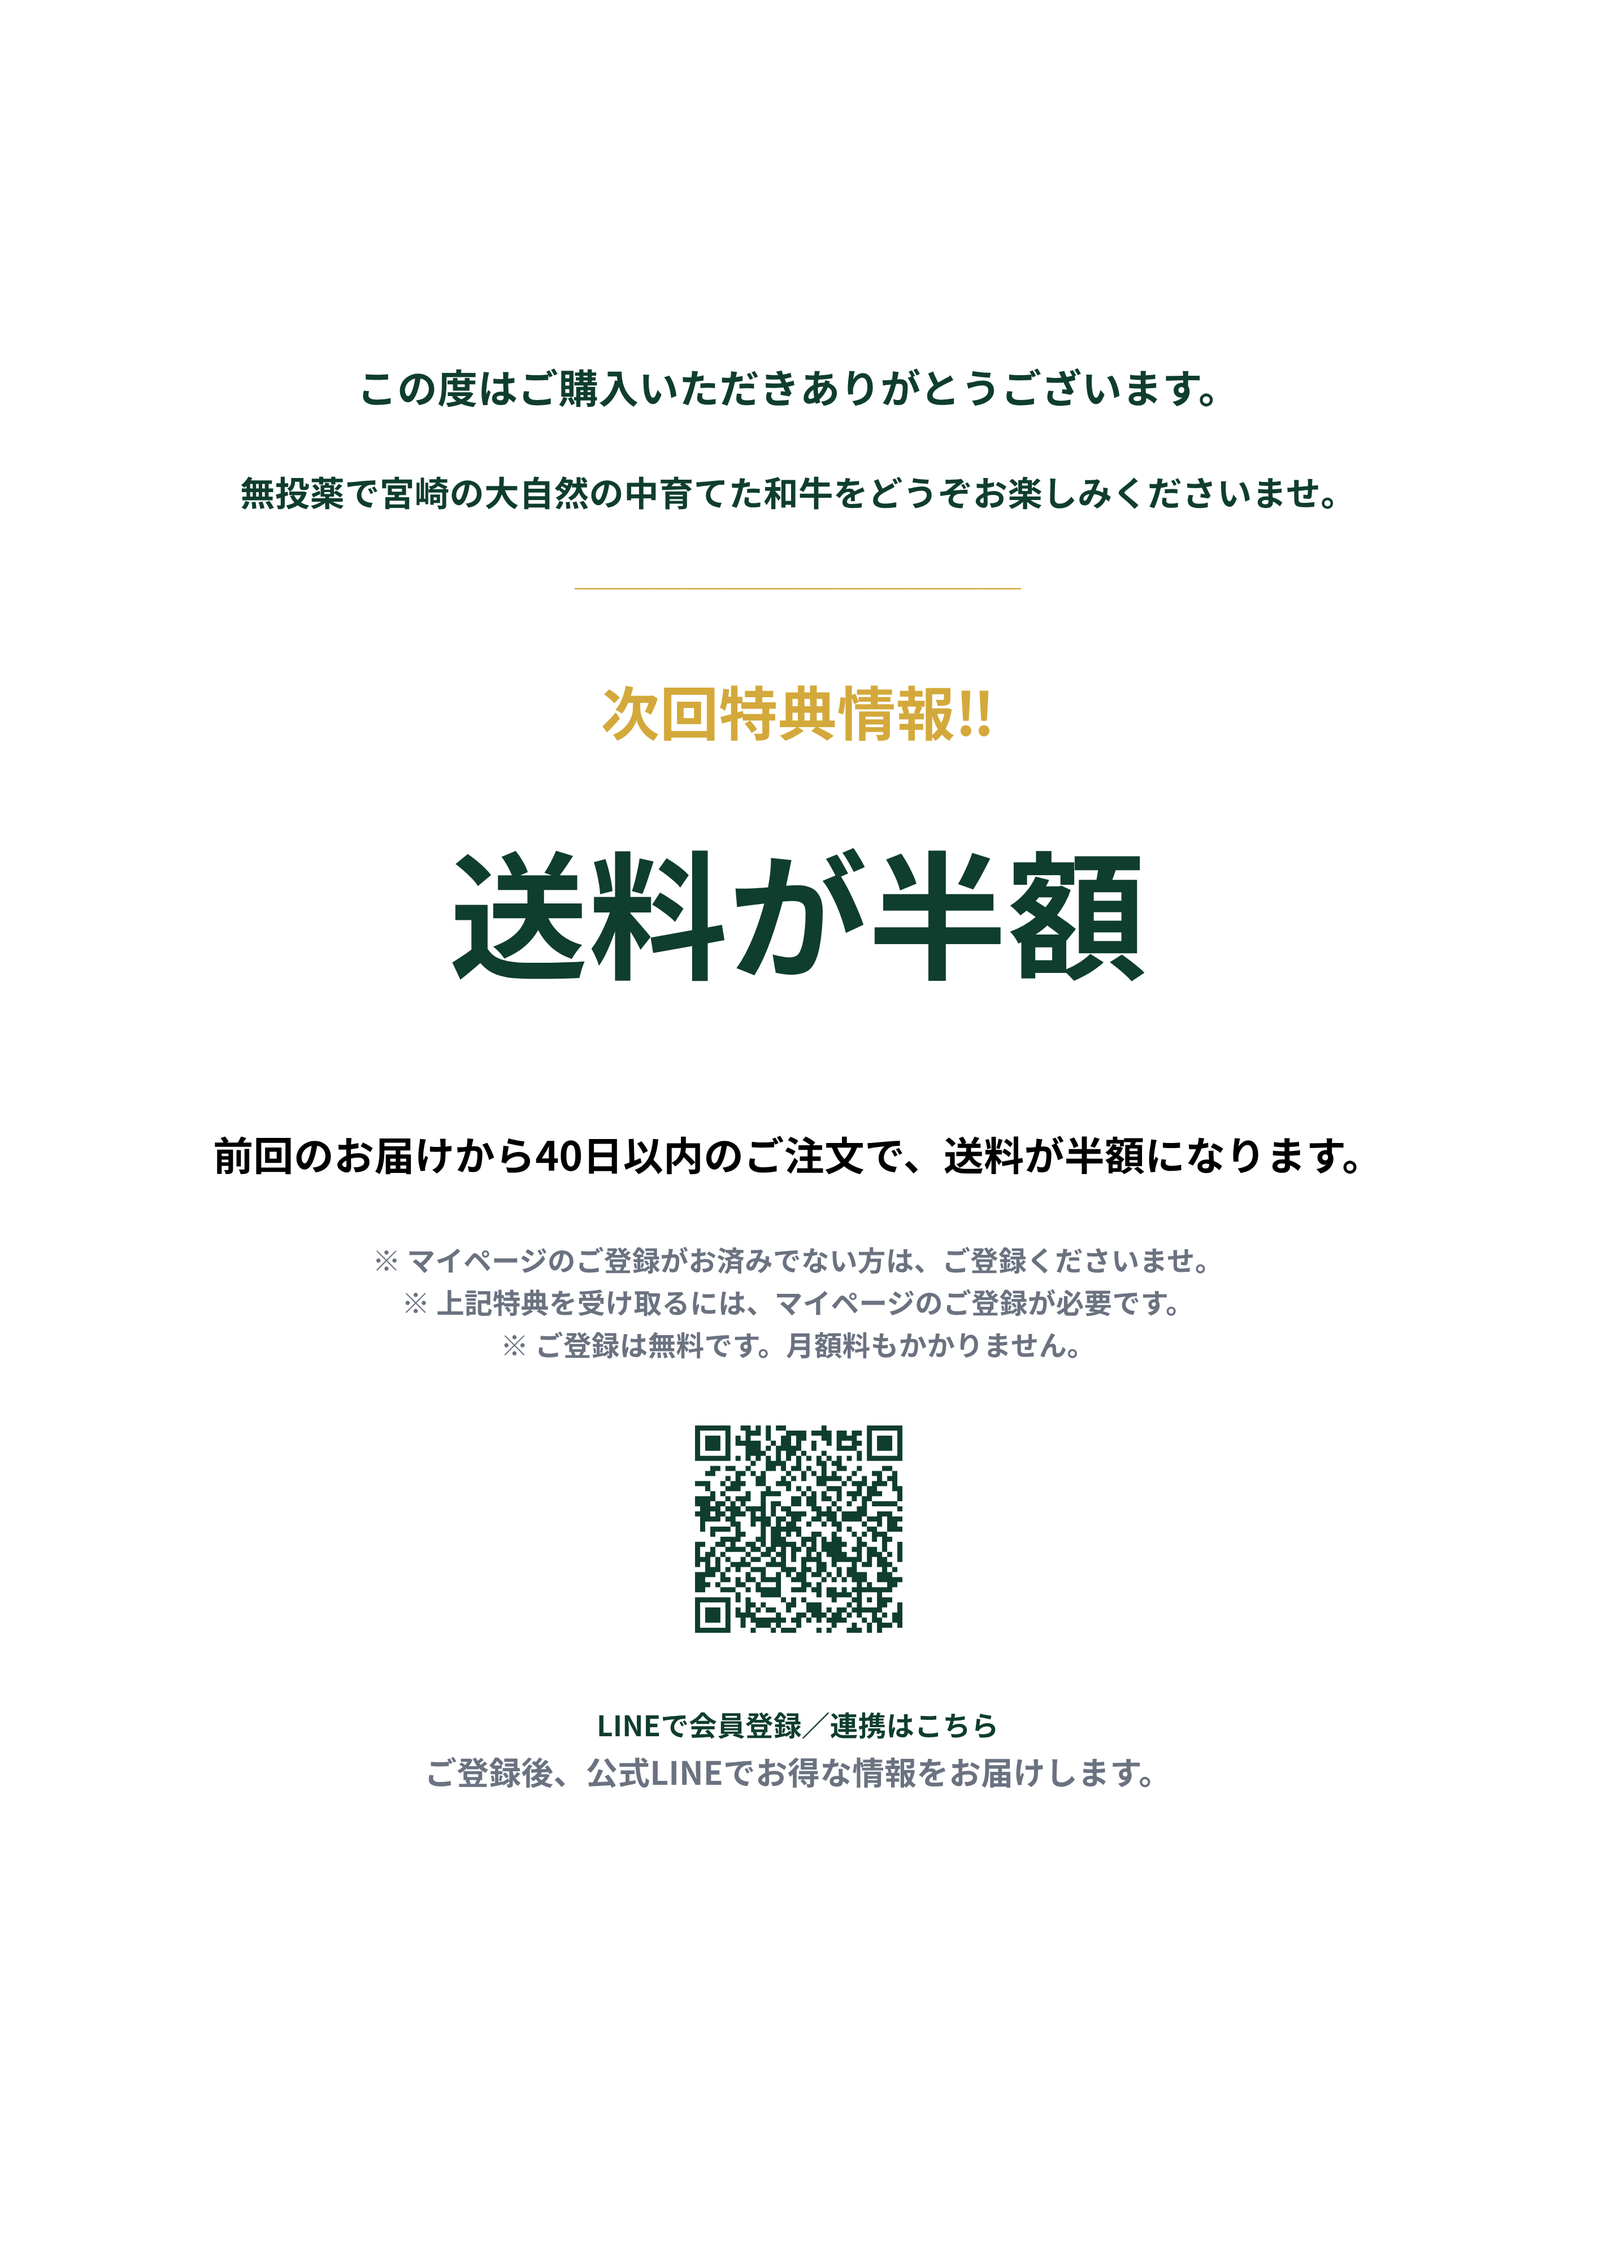
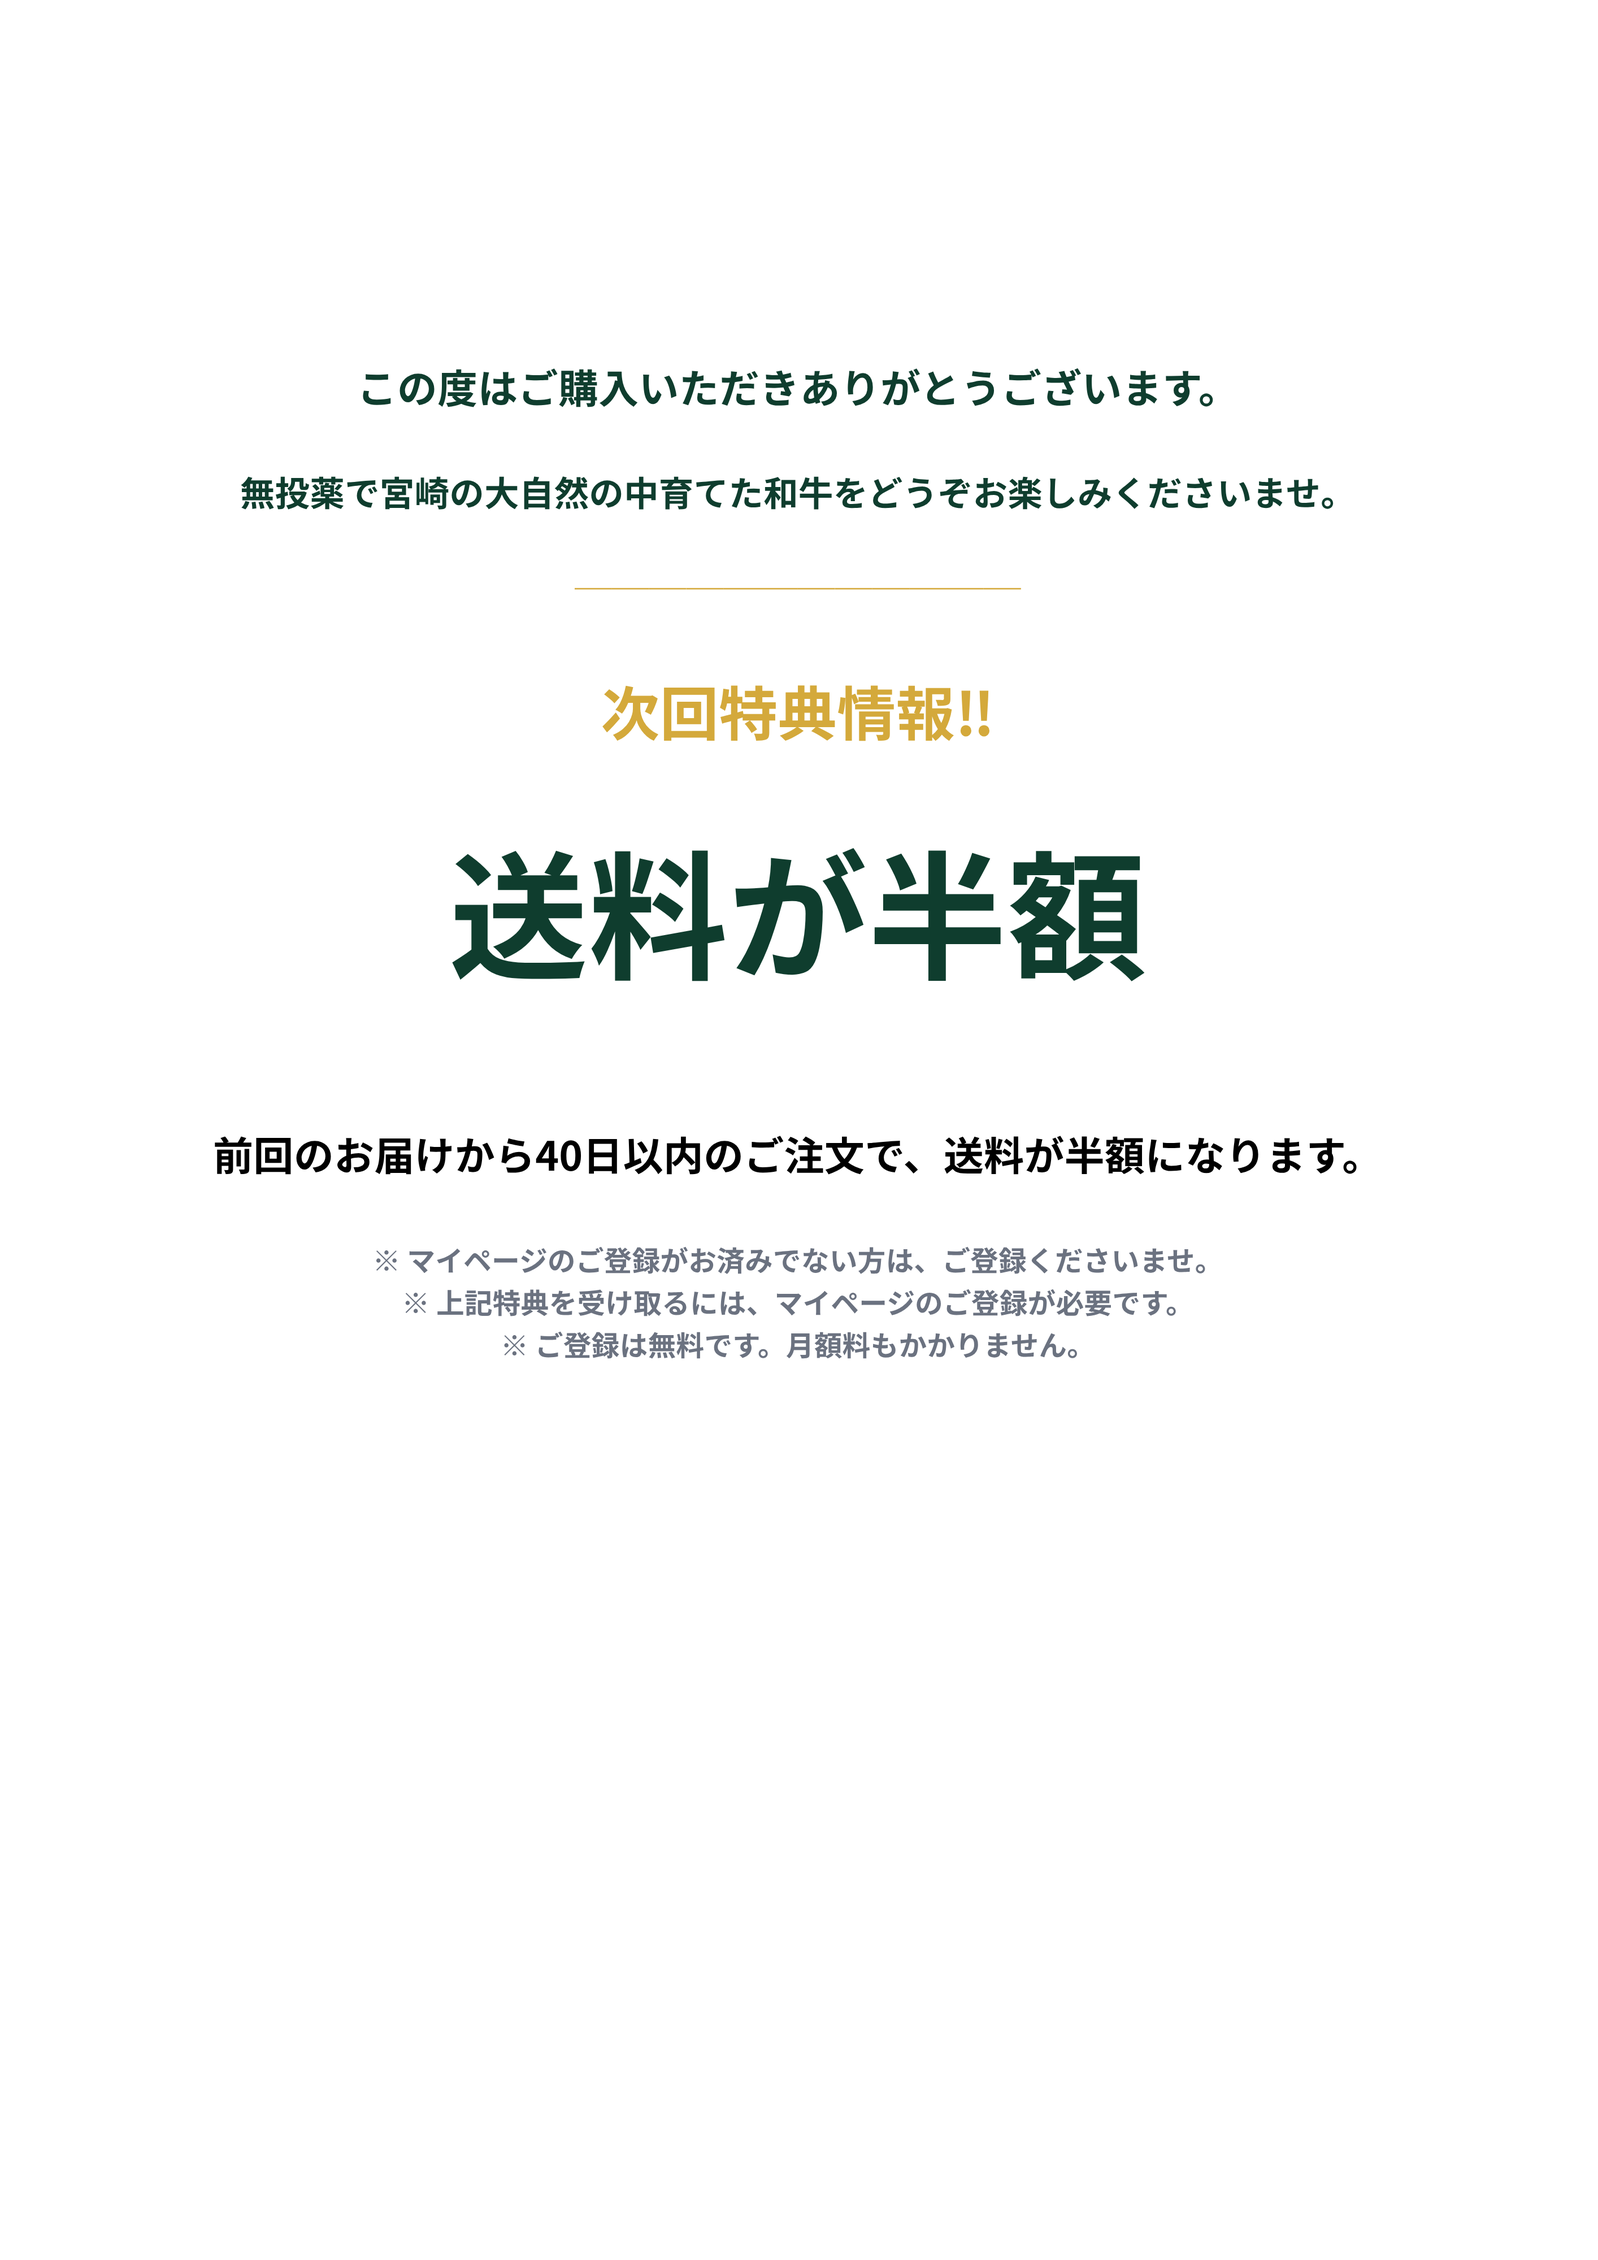
同梱用紙の下の案内文を、公式LINEと繋がっているかで出し分ける
田崎さん決定（2026-09-01）。紙は1人ずつ印刷しているので、その方が公式LINEと
繋がっているかで下の案内文を変える。

・未連携  … 「公式LINEとつながると、次回の特典やお届けのご案内が届きます」＋QR
・連携済み … 「お味の感想を、公式LINEにひとことお聞かせください」（お名前入り・QRなし）

判定は注文の line_uid（この画面が発送通知の宛先を決めるのと同じ値）。staff.html が
reward-sheet.html?line=1/0 で渡す。GASは触っていない（再デプロイ不要）。

・絵柄5枚からQRと下2行を削除して書き出し直した（文言はシート側で刷るため）
・QR画像 public/rewards/line-qr.png を追加（飛び先 mypage.html?src=insert）
・案内文の位置は印刷ページのツールバーで調整（このPCに記憶）

diff --git a/reward-sheet.html b/reward-sheet.html
@@ -25,6 +25,7 @@
     --forest:#0F3D2E; --gold:#D4A93B; --cream:#FAF7F0; --ink:#1A1A1A; --muted:#6B7280;
     --shift: 0mm;               /* 下書きのとき: 文字全体の上下位置 */
     --name-top: 40mm;           /* 絵柄ありのとき: 「〇〇様」を上から何mmに置くか */
+    --foot-top: 190mm;          /* 絵柄ありのとき: 下の案内文（LINE）を上から何mmに置くか */
   }
   *{ box-sizing:border-box }
   body{ margin:0; background:#E9ECEF; color:var(--ink);
@@ -71,7 +72,8 @@
   .spacer{ flex:1 }
 
   .line-block{ text-align:center }
-  .line-sub{ font-size:9.5pt; font-weight:500; color:var(--muted); line-height:1.8; margin:3mm 0 0 }
+  .line-lead{ font-size:12pt; font-weight:700; color:var(--forest); line-height:1.9; margin:0 }
+  .line-sub{ font-size:10.5pt; font-weight:500; color:var(--muted); line-height:1.9; margin:3mm 0 0 }
   .qr{ width:34mm; height:34mm; margin:5mm auto 3mm; display:block }
   .qr-ph{ width:34mm; height:34mm; margin:5mm auto 3mm; border:2px dashed #C9CED4; border-radius:3mm;
           display:flex; align-items:center; justify-content:center; font-size:8pt; font-weight:700; color:var(--muted); text-align:center; padding:3mm }
@@ -85,6 +87,9 @@
   body.has-art .sheet{ background:transparent }
   body.has-art .layer > *{ display:none }
   body.has-art .greet-name{ display:block; position:absolute; left:0; right:0; top:var(--name-top); margin:0 }
+  /* 下の案内文だけは絵柄ありでも刷る。公式LINEと繋がっているかで中身が変わるため
+     絵柄には入れず、ここで組む（[[お名前]]と同じ扱い）。 */
+  body.has-art .line-block{ display:block; position:absolute; left:14mm; right:14mm; top:var(--foot-top) }
 
   @media print{
     @page{ size:A4 portrait; margin:0 }
@@ -107,10 +112,12 @@
   </label>
   <button class="btn" onclick="window.print()">🖨 印刷する</button>
   <label style="margin-left:auto"><span id="shiftLabel">文字の上下位置</span> <input type="number" id="shiftInput" min="-40" max="200" step="1"> mm</label>
+  <label id="footLabelWrap" style="display:none">案内文の位置 <input type="number" id="footInput" min="0" max="270" step="1"> mm</label>
   <p class="hint">
     印刷設定は「用紙サイズ A4／余白なし（既定）／拡大縮小 100%／背景のグラフィックを印刷する」で刷ってください。<br>
-    Canvaの絵柄を置くと、この紙に刷る文字は「〇〇様」の1行だけになります（文言は絵柄の中にあるため）。<br>
-    その1行を上から何mmに置くかは、右の数字で1回だけ合わせてください（このパソコンに記憶されます）。
+    Canvaの絵柄を置くと、この紙に刷る文字は「〇〇様」と下の案内文だけになります（他の文言は絵柄の中）。<br>
+    下の案内文は<strong>公式LINEと繋がっている方だけ「感想をお聞かせください」に変わり、QRは出ません</strong>。<br>
+    位置は右の数字で1回だけ合わせてください（このパソコンに記憶されます）。
   </p>
 </div>
 
@@ -139,11 +146,7 @@
         <p>※ ご登録は無料です。月額料もかかりません。</p>
       </div>
 
-      <div class="line-block">
-        <div class="qr-ph" id="qrSlot">QRはここに入ります<br>（未確定）</div>
-        <p class="line-cap">マイページのご登録はこちら</p>
-        <p class="line-sub">このあとの特典やおすすめのご案内は、公式LINEからお送りします。</p>
-      </div>
+      <div class="line-block" id="lineBlock"></div>
 
       <p class="foot">江田畜産　eda-livestock.com</p>
     </div>
@@ -171,9 +174,34 @@ var SHEET_TEXT = {
 
 var STAGE_LABEL = { 2:'2回目', 3:'3回目', 4:'4回目', 5:'5回目', 6:'6回目' };
 
+/* ============================================================
+   下の案内文（公式LINE）。**繋がっているかどうかで中身を変える**
+   （2026-09-01 田崎さん決定）。
+     未連携  … 公式LINEにつながってもらう。QRを出す。
+     連携済み … 感想をもらう。QRは出さない（もう繋がっているため）。
+   🔴 この2行は絵柄(Canva)には入れない。ここで刷る＝1人ずつ出し分けられる。
+   ============================================================ */
+var FOOT_TEXT = {
+  /* 公式LINE未連携の方 */
+  off: function () {
+    return '<p class="line-lead">公式LINEとつながると、次回の特典やお届けのご案内が届きます。</p>' +
+           '<p class="line-sub">▼ 友だち追加・マイページのご登録はこちら</p>' +
+           '<div class="qr-ph" id="qrSlot">QRはここに入ります<br>（未登録）</div>';
+  },
+  /* 公式LINE連携済みの方（お名前を差し込む） */
+  on: function (name) {
+    var n = name ? (name + '様') : 'お客様';
+    return '<p class="line-lead">お味の感想を、公式LINEにひとことお聞かせください。</p>' +
+           '<p class="line-sub">いただいたお声はこれからの江田畜産に活かされ、' + n +
+           'に合ったご提案やお届けのご相談など、サポートをより厚くしてまいります。</p>';
+  }
+};
+
 var qs    = new URLSearchParams(location.search);
 var stage = String(Number(qs.get('stage')) || '');
 var name0 = (qs.get('name') || '').trim();
+/* ?line=1 … 公式LINE連携済み / それ以外 … 未連携（管理画面が注文の line_uid から渡す） */
+var lineLinked = qs.get('line') === '1';
 var t     = SHEET_TEXT[stage] || SHEET_TEXT[3];
 
 document.getElementById('barStage').textContent = STAGE_LABEL[stage] || '次回特典';
@@ -184,11 +212,18 @@ document.getElementById('sub').innerHTML  = t.sub;
 /* ── お名前 ───────────────────────────────────────────── */
 var nameInput = document.getElementById('nameInput');
 var greetName = document.getElementById('greetName');
+var lineBlock = document.getElementById('lineBlock');
+function renderFoot() {
+  var v = (nameInput.value || '').trim();
+  lineBlock.innerHTML = lineLinked ? FOOT_TEXT.on(v) : FOOT_TEXT.off();
+  if (!lineLinked) loadQr();          /* QRは未連携のときだけ */
+}
 function renderName() {
   var v = (nameInput.value || '').trim();
   /* 名前が無いときは「様」だけが浮くので、その行ごと出さない */
   greetName.textContent = v ? (v + '様') : '';
   greetName.style.display = v ? '' : 'none';
+  renderFoot();                        /* 連携済みの文面にはお名前が入る */
 }
 nameInput.value = name0;
 nameInput.addEventListener('input', renderName);
@@ -217,6 +252,15 @@ function applyShift() {
     try { localStorage.setItem(SHIFT_KEY, String(v)); } catch (e) {}
   }
 }
+var FOOTTOP_KEY = 'eda-reward-sheet-foottop';
+var footInput   = document.getElementById('footInput');
+function applyFootTop() {
+  var v = Math.max(0, Math.min(270, Number(footInput.value) || 190));
+  document.documentElement.style.setProperty('--foot-top', v + 'mm');
+  try { localStorage.setItem(FOOTTOP_KEY, String(v)); } catch (e) {}
+}
+footInput.addEventListener('input', applyFootTop);
+
 function useNameTopMode() {
   nameTopMode = true;
   shiftLabel.textContent = 'お名前の位置（上から）';
@@ -224,6 +268,12 @@ function useNameTopMode() {
   try { saved = Number(localStorage.getItem(NAMETOP_KEY)) || 40; } catch (e) {}
   shiftInput.value = saved;
   applyShift();
+  /* 絵柄ありのときだけ「案内文の位置」も出す */
+  var savedFoot = 190;
+  try { savedFoot = Number(localStorage.getItem(FOOTTOP_KEY)) || 190; } catch (e) {}
+  footInput.value = savedFoot;
+  applyFootTop();
+  document.getElementById('footLabelWrap').style.display = '';
 }
 (function initShift() {
   var saved = 0;
@@ -256,12 +306,14 @@ swapIn(['public/rewards/next-' + stage + '.png', 'public/rewards/next-' + stage 
   useNameTopMode();
 });
 
-/* 公式LINEの友だち追加QR。置かれたら点線の枠と差し替える。 */
-swapIn(['public/rewards/line-qr.png', 'public/rewards/line-qr.jpg'], function (img) {
-  img.className = 'qr'; img.alt = '公式LINE 友だち追加';
-  var slot = document.getElementById('qrSlot');
-  slot.parentNode.replaceChild(img, slot);
-});
+/* マイページ登録（=公式LINE連携）のQR。未連携の方の紙にだけ出す。 */
+function loadQr() {
+  swapIn(['public/rewards/line-qr.png', 'public/rewards/line-qr.jpg'], function (img) {
+    img.className = 'qr'; img.alt = 'マイページのご登録・公式LINE連携';
+    var slot = document.getElementById('qrSlot');
+    if (slot) slot.parentNode.replaceChild(img, slot);
+  });
+}
 </script>
 </body>
 </html>

diff --git a/staff.html b/staff.html
@@ -3239,7 +3239,8 @@ function renderShipDetail() {
                 <span style="font-weight:800">様</span>
                 <button type="button" onclick="openPerkSheet(${nx.num})" style="${perkBtnStyle};border:0;cursor:pointer">📄 ${nx.num}回目の特典用紙を開く（印刷して同梱）</button>
               </div>
-              <div style="font-size:11px;color:var(--muted);margin-top:6px">この欄のお名前がそのまま用紙に刷られます（ご購入者名を入れてあります。ギフトの場合はご注意ください）</div>`
+              <div style="font-size:11px;color:var(--muted);margin-top:6px">この欄のお名前がそのまま用紙に刷られます（ご購入者名を入れてあります。ギフトの場合はご注意ください）<br>
+                下の案内文は <strong style="color:${o.lineUid ? '#065F46' : '#8A6D1A'}">${o.lineUid ? 'LINE連携済み → ご感想のお願い（QRなし）' : 'LINE未連携 → 公式LINEへのご案内（QRあり）'}</strong> で刷られます</div>`
             : `<span style="color:var(--muted)">${nx.num}回目の特典が未設定のため、用紙はありません</span>`}</span></div>
       </div>`;
 
@@ -3371,7 +3372,11 @@ function renderShipDetail() {
 function openPerkSheet(num) {
   const el = document.getElementById('perkSheetName');
   const nm = el ? String(el.value || '').trim() : '';
-  window.open('reward-sheet.html?stage=' + encodeURIComponent(num) + '&name=' + encodeURIComponent(nm),
+  /* 公式LINEと繋がっているお客様には、紙の下の案内文が「ご感想をお聞かせください」に変わり
+     QRが出ない。判定は注文の line_uid（この画面が発送通知の宛先を決めるのと同じ値）。 */
+  const linked = (selectedOrder && selectedOrder.lineUid) ? '1' : '0';
+  window.open('reward-sheet.html?stage=' + encodeURIComponent(num) + '&name=' + encodeURIComponent(nm) +
+              '&line=' + linked,
               '_blank', 'noopener');
 }
 

diff --git a/sw.js b/sw.js
@@ -3,7 +3,7 @@
    - Strategy: network-first for HTML/JS/CSS, cache-first for images & fonts
    - Version bump invalidates old cache
    ============================================================ */
-const CACHE_VERSION = 'eda-v2026-09-01-240-reward-sheet-name';
+const CACHE_VERSION = 'eda-v2026-09-01-241-reward-sheet-line';
 const CORE_ASSETS = [
   './',
   'index.html',
